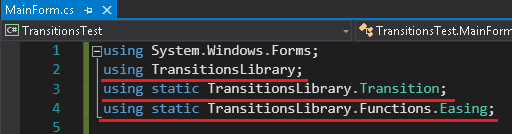
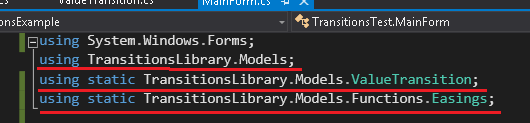
Update

diff --git a/TransitionsTest/MainForm.cs b/TransitionsTest/MainForm.cs
@@ -1,8 +1,7 @@
 using System.Windows.Forms;
-using TransitionsLibrary.Models.Functions;
-using static TransitionsLibrary.Models.Functions.Easings;
 using TransitionsLibrary.Models;
 using static TransitionsLibrary.Models.ValueTransition;
+using static TransitionsLibrary.Models.Functions.Easings;
 
 namespace TransitionsTest
 {
@@ -51,7 +50,7 @@ namespace TransitionsTest
                     endValue: e.X, 
                     duration: 1300, 
                     onValueChanged: OnValueChanged,
-                    easingFunction: Elastic.InOut,
+                    easingFunction: CurrentFuntion,
                     targetControl: CurrentObject,
                     fps: 60
                 );

diff --git a/TransitionsLibrary/Models/Transition.cs b/TransitionsLibrary/Models/Transition.cs
@@ -36,10 +36,15 @@ namespace TransitionsLibrary.Models
 
         protected Transition(EasingFunction function, int duration, int fps, int startDelay)
         {
+            if (fps < 1)
+                throw new ArgumentException("FPS must be greater than 0!");
+            if (duration < 1)
+                throw new ArgumentException("Duration must be greater than 0!");
+
             Function = function;
-            Duration = duration;
             FPS = fps;
             StartDelay = startDelay;
+
             TransitionThread = new Thread(StartTransition);
         }
 

diff --git a/TransitionsLibrary/Models/ValueTransition.cs b/TransitionsLibrary/Models/ValueTransition.cs
@@ -37,7 +37,6 @@ namespace TransitionsLibrary.Models
             TargetControl = targetControl;
         }
 
-
         public override void Start()
         {
             if (!IsActive)
